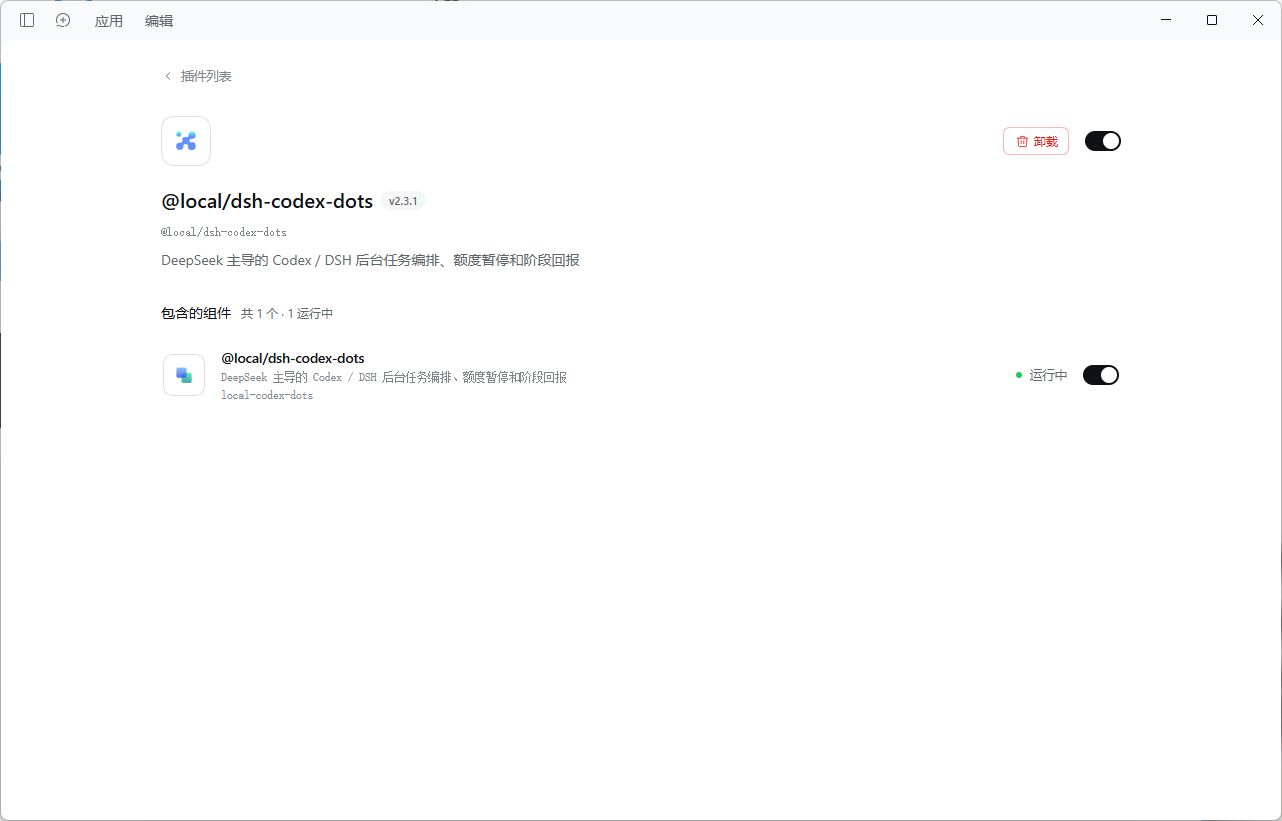
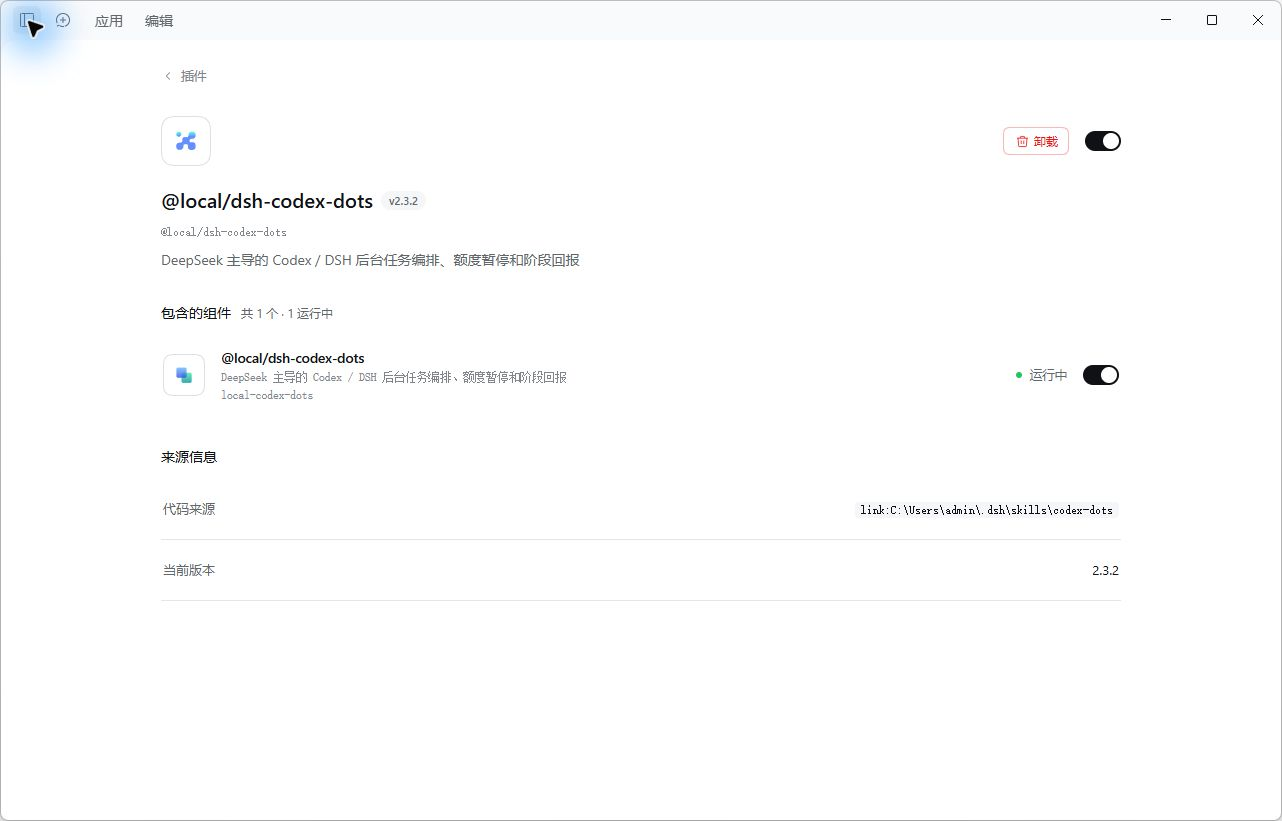
发布 DSH Codex Dots v2.3.2：插件、安装说明、真实截图和测试

diff --git a/README.md b/README.md
@@ -1,4 +1,4 @@
-# DSH Codex Dots 2.3.1
+# DSH Codex Dots 2.3.2
 
 让 DSH 中的 DeepSeek 规划任务，后台调度 Codex 或 DSH 子对话，读取输出后继续派发，并在 DSH 对话中汇报阶段结果。提供项目对话列表、接管已有 Codex 对话、Markdown/代码高亮、完整历史、实时输出、额度暂停与人工确认恢复。
 
@@ -10,7 +10,7 @@
 
 以下为本机 DSH 的真实截图；已收起其他项目列表，仅展示插件页和专门的轻量演示对话。演示正文由 Codex 生成，用于检查 Markdown/表格/代码高亮，不代表截图中的示例代码就是插件实现。
 
-**安装与运行状态（v2.3.1）**
+**安装与运行状态（v2.3.2）**
 
 ![DSH 插件详情显示版本和运行状态](docs/screenshots/plugin-installed.png)
 
@@ -18,7 +18,7 @@
 
 ![代管对话面板显示完整的 Markdown 和代码](docs/screenshots/managed-conversation.png)
 
-内容截图回看的是 2.3.0 两轮联调历史；当前插件为 2.3.1。截图中“停止阈值 10%”是该次测试配置，不是新用户的默认预算。实时增量与暂停恢复测试说明见 [验证说明](docs/validation.md)。
+内容截图回看的是 2.3.0 两轮联调历史；当前插件为 2.3.2。截图中“停止阈值 10%”是该次测试配置，不是新用户的默认预算。实时增量与暂停恢复测试说明见 [验证说明](docs/validation.md)。
 
 ## 工作流程
 
@@ -26,12 +26,16 @@
 
 等待后台执行时主对话空闲；事件到达后的分析仍会短暂显示思考。达到额度或权限边界时暂停，不会自动提高预算。
 
+## 升级到新版 DSH
+
+2.3.2 增加对 DSH 0.2.1-rc.2 的兼容声明，同时保留 0.2.0-rc.2。旧版插件在新 DSH 中可能显示“与 DSH 不兼容”，这是依赖版本检查导致的停用。先结束正在运行的任务，用本发行包替换原插件目录里的文件，再重启 DSH；不要删除 `~/.dsh/codex-dots/v2` 任务状态目录。若显示“已停用”，在插件详情重新启用；若仍显示旧版本，通过插件管理器重新安装原目录。
+
 ## 其他电脑安装
 
-1. 在目标电脑准备并登录 DSH 和 Codex。已验证组合：Windows x64、DSH **0.2.0-rc.2**、Codex CLI **0.163.0**；其他系统及版本尚未实测。宿主内部 API 有版本依赖，不能保证任意 DSH 版本兼容。
-2. 解压 `dsh-codex-dots-2.3.1.zip`，把其中 `codex-dots` 文件夹放到固定位置，例如 `C:\dsh-plugins\codex-dots`。该文件夹内应直接包含 `package.json`、`index.mjs` 和 `cordis.patch.yml`。
+1. 在目标电脑准备并登录 DSH 和 Codex。已验证组合：Windows x64、DSH **0.2.1-rc.2**、Codex CLI **0.163.0**；其他系统及版本尚未实测。宿主内部 API 有版本依赖，不能保证任意 DSH 版本兼容。
+2. 解压 `dsh-codex-dots-2.3.2.zip`，把其中 `codex-dots` 文件夹放到固定位置，例如 `C:\dsh-plugins\codex-dots`。该文件夹内应直接包含 `package.json`、`index.mjs` 和 `cordis.patch.yml`。
 3. 打开 DSH →「插件」→「添加插件」，输入上述文件夹的**绝对路径**，安装并启用。目录安装使用本地链接，安装后请保留目录，不要从临时解压预览里安装。
-4. 若界面提示重启，先停止正在运行的任务再重启 DSH。在插件详情中核对 **v2.3.1**、组件「运行中」，左侧应出现「Codex 对话」。
+4. 若界面提示重启，先停止正在运行的任务再重启 DSH。在插件详情中核对 **v2.3.2**、组件「运行中」，左侧应出现「Codex 对话」。
 5. 在 DSH 主对话选择 DeepSeek，先发送：**“调用 dots_probe 检查本机 Codex 的可用模型和额度，只做查询，不启动任务。”** 查询会启动本机 app-server，但不会启动 Codex 模型轮次；DeepSeek 回复仍消耗其自身额度。
 
 另提供 npm 格式 `.tgz` 发行文件，供接受本地 tarball 的包管理流程使用。普通用户优先按上述 ZIP 解压目录流程安装，不需要执行 npm install，不需要上传 npm 仓库。

diff --git a/docs/validation.md b/docs/validation.md
@@ -1,6 +1,6 @@
 # 验证范围
 
-本机验证环境：Windows x64、DSH 0.2.0-rc.2、Codex CLI 0.163.0。其他电脑、系统或宿主版本尚未实测。
+本次（2.3.2）验证环境：Windows x64、DSH 0.2.1-rc.2。之前的 2.3.0/2.3.1 使用 DSH 0.2.0-rc.2、Codex CLI 0.163.0。其他系统尚未实测。
 
 ## 离线测试
 
@@ -10,7 +10,9 @@
 
 ## DSH 宿主检查
 
-使用本机 DSH 安装包自带的 Cordis、Tools、SystemPrompt、SlotCore 运行冒烟测试，检查九个原生工具注册、结构化 schema、用户取消后的零任务、请求错误恢复 waterfall、原生消息准入与卸载清理。模型和用户回答是测试替身，不将其等同于真实模型闭环。
+使用本机 DSH 安装包自带的 Cordis、Tools、SystemPrompt 运行冒烟测试，检查九个原生工具注册、结构化 schema、用户取消后的零任务、请求错误恢复 waterfall、原生消息准入与卸载清理。模型和用户回答是测试替身，不将其等同于真实模型闭环。
+
+0.2.1 的 slots/primitives 位于浏览器公共包，已不再作为独立 Node 包发布。2.3.2 宿主测试验证公共模块存在，离线测试验证插件插槽注册与资源清理；真实 UI 渲染另行核对，不把替身测试称为真实 SlotCore 测试。
 
 ## 真实轻量联调
 
@@ -25,3 +27,9 @@
 2.3.1 新增结构化计划参数与一次有条件的 JSON 错误重生成，并通过真实 DSH 宿主测试；安装页显示 v2.3.1、组件运行中。此功能不能保证模型永不产生无效 JSON，耗尽本轮恢复机会后仍会停止并报告原错误。
 
 截图来自现有演示记录的回看，不能单凭静态截图证明实时性。文档不发布真实账号额度、研究任务内容、会话 ID 或宿主日志。
+
+## 2.3.2 新版宿主回归（2026-10-18）
+
+在 DSH 0.2.1-rc.2 重启并重新启用插件后，详情页显示 v2.3.2、组件运行中。打开原轻量演示会话，代管页自动读取 STREAM-A/B 两轮历史，保留 Markdown 表格、JavaScript 高亮、代码复制及完整原文入口。29 项离线测试和新版真实宿主冒烟检查通过。
+
+本次未新增 DeepSeek/Codex 模型轮次；暂停恢复和实时增量路径由离线回归覆盖，真实两轮模型闭环记录仍为上面的 2.3.0 测试，不宣称在新版重新完成付费闭环。

diff --git a/references/install.md b/references/install.md
@@ -20,6 +20,10 @@
 
 更新已安装代码通常需要 DSH 重启来加载新的 JavaScript 模块。不要在其他任务运行时自动重启应用。停止任务后再升级；任务状态在插件包目录之外，不随包替换删除。
 
+## DSH 0.2.1 升级
+
+DSH 0.2.1-rc.2 会拒绝仅声明 0.2.0-rc.2 宿主依赖的旧插件。请升级到 2.3.2，保留本地链接目录、配置和目录外的任务状态，重启后确认新版本；若升级时已被宿主停用，在插件详情重新启用，并核对组件运行状态。无需更改额度阈值或重新安装依赖环境。
+
 ## 验证命令
 
 2.2.0 安装后，左侧「Codex 对话」进入项目树与消息预览；在已有 DSH 主对话顶部点击「Codex」，打开右侧对话列表，选中一项进入「代管 Codex 对话」。填写目标并提交后，DeepSeek 处理续接计划；真正执行仍经过启用/费用和计划确认。查询工具的结果也会自动打开侧栏。面板走宿主认证连接，不额外暴露 HTTP 服务。

diff --git a/CHANGELOG.md b/CHANGELOG.md
@@ -1,5 +1,12 @@
 # 更新记录
 
+## 2.3.2
+
+- 适配 DSH 0.2.1-rc.2，修复旧版精确依赖声明导致插件被停用；保留 0.2.0-rc.2 的兼容范围。
+- 调整宿主测试以适应新版将 slots/primitives 合入浏览器公共包的布局，不再从已移除的 Node 包入口导入。
+- 保留用户费用/计划确认、额度阈值、恢复确认与有限重试边界。
+- 更新升级说明与本机验证记录。
+
 ## 2.3.1
 
 - 为 dots_start 提供完整对象/数组参数定义，明确 Windows 路径、workers 和预算结构。
